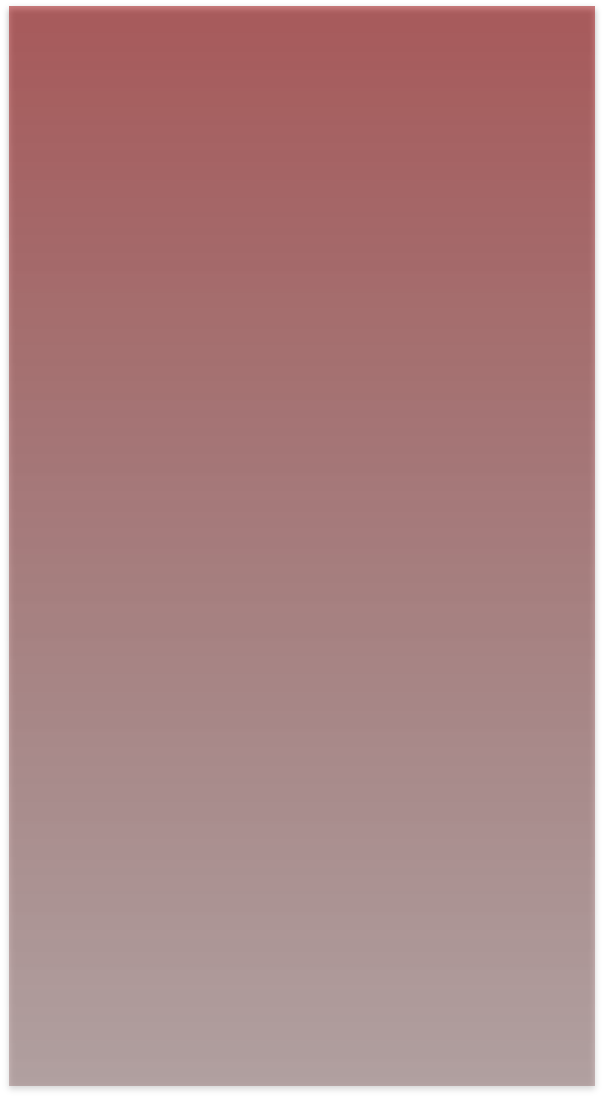
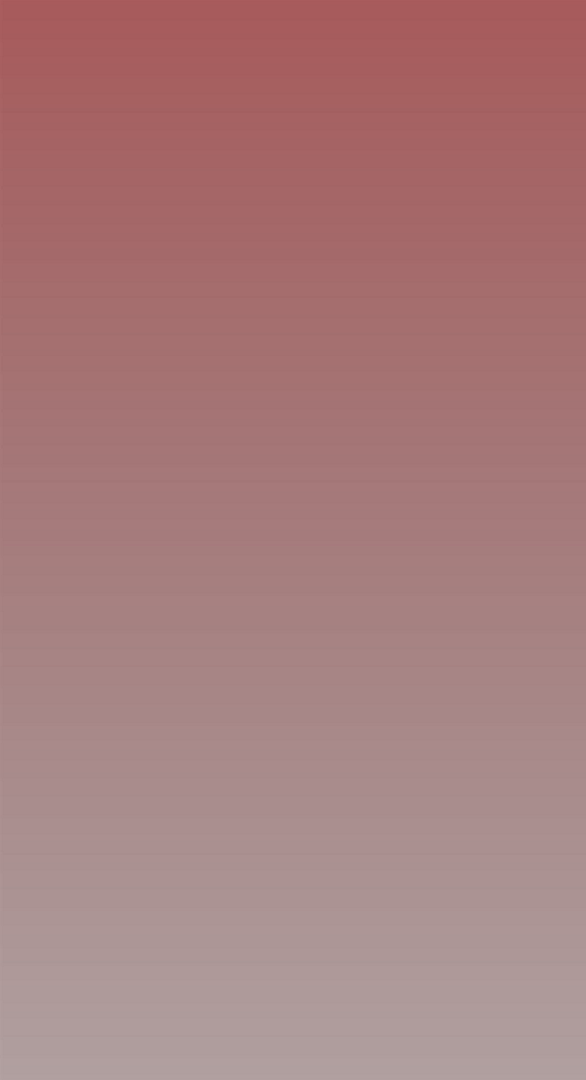
configuração do card do header finalizada

Changed region(s): [[0.0, 0.0, 1.0, 1.0]]

diff --git a/src/index.css b/src/index.css
@@ -26,16 +26,25 @@ body {
 
 .header{
   grid-area: header;
-  background-image: url("./image/component.png");
+  background: url("./image/component.png");
   background-size: cover;
   background-position: 100% 100%; /*posição responsiva de largura x altura*/
   background-repeat: no-repeat;
-  background-color: "#363636";
 }
 
-.header::after{
-  background-color: "#363636";
+.header2{
+  display: flex;
+  justify-content: center;
 }
+
+.card-header{
+  background-color: #9C020480;
+  box-shadow: 0px 3px 6px #00000099;
+  opacity: 1;
+  display: flex;
+  height: 1080px;
+  width: 586px
+  }
 
 .container{
   grid-area: container;
@@ -84,12 +93,18 @@ body {
   padding: 30px;
 }
 
-@media(max-width: 500px){
+
+
+@media(max-width: 650px){
  
 .super-bar-title{
   font: normal normal bold 16px/26px Montserrat;
   padding: 0px;
 }
+
+.card-header{
+  width: 300px
+  }
 
 }
 

diff --git a/src/App.js b/src/App.js
@@ -4,10 +4,17 @@ import Header from './header'
 const App = () => {
   return (
     <div className="grid-container">
+
       <Header />
+
       <div className="container">
-        <section className="section1">section1</section>
-        <section className="section2">section2</section>
+        <section className="section1">
+          section1
+        </section>
+
+        <section className="section2">
+          section2
+        </section>
         <footer className="footer">footer</footer>
       </div>
     </div>

diff --git a/src/header.js b/src/header.js
@@ -1,12 +1,16 @@
 
 import barImage from './image/barImage.png'
+import card from './image/card.png'
 
 const Header = () => {
   return(
     <header className="header">
       <div className="super-bar">
-        <img src={barImage}/>
+        <img src={barImage} alt="icone supergiantesgame"/>
         <div className="super-bar-title">SUPERGIANTSGAME</div>  
+      </div>
+      <div className="header2">
+        <div className="card-header"></div>
       </div>
     </header>
   )
